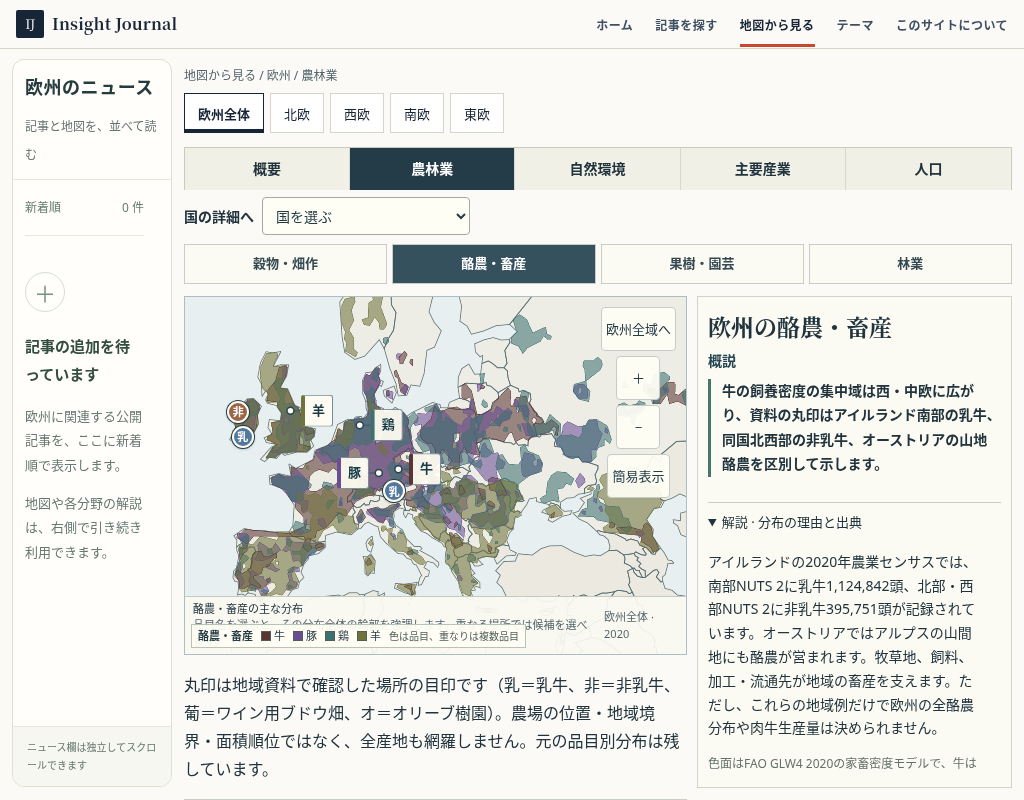
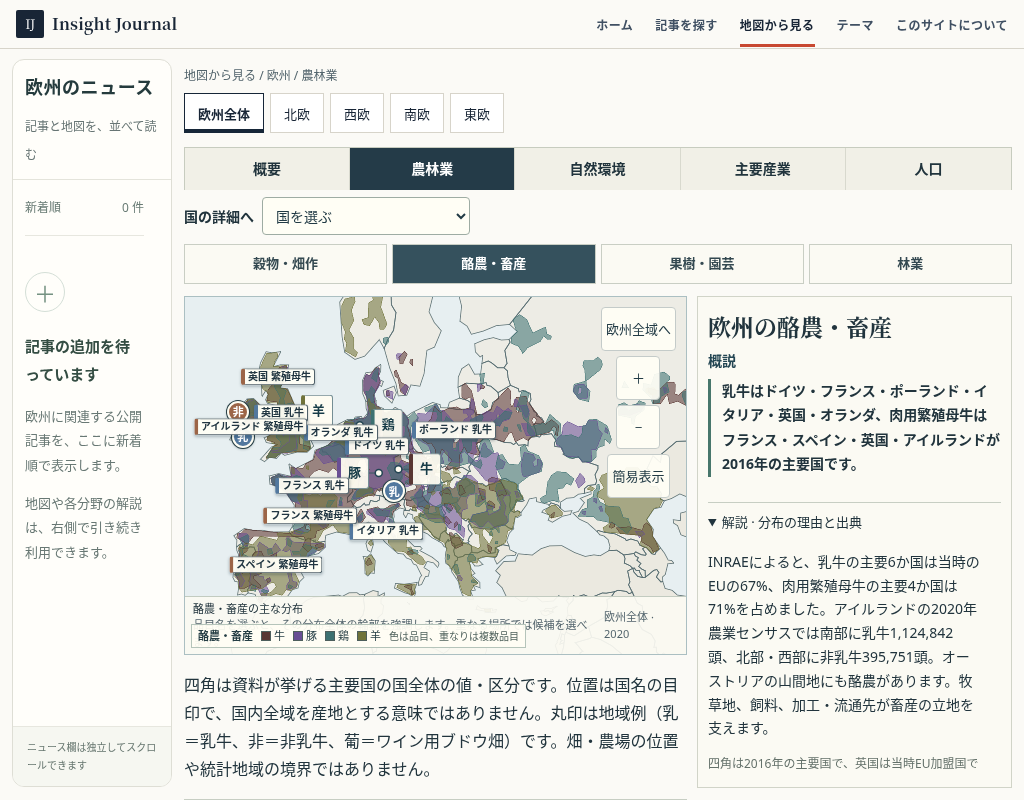
Show sourced principal farming countries across Europe

diff --git a/src/lib/atlas-europe-reader.ts b/src/lib/atlas-europe-reader.ts
@@ -32,6 +32,7 @@ const factualSources: Record<string, ReaderSource[]> = {
   chicken:climateFarming.Csb.sources,
   sheep:[...climateFarming.Cfb.sources,...cityFarming.reykjavik.sources,cityFarming.athens.sources[1]],
   livestock:[
+    {url:'https://sustainbeef.hub.inrae.fr/project/wp2.1-description-of-beef-production-systems/wp2.1.1-beef-production-national-statistics',label:'INRAE：2016年の乳牛・肉用繁殖母牛の主要国'},
     {url:'https://www.cso.ie/en/releasesandpublications/ep/p-coa/censusofagriculture2020-preliminaryresults/livestock/',label:'アイルランドCSO：2020年農業センサスの乳牛・非乳牛（地域別）'},
     {url:'https://www.bmluk.gv.at/en/topics/agriculture/agriculture-in-austria/animal-production-in-austria/dairy-farming-in-austria.html',label:'オーストリア農業省：山間地の酪農'},
   ],
@@ -189,14 +190,14 @@ export function europeReaderCopy(layer:EuropeLayer) {
     note:'2020年頃の品目別収穫面積格子から集中域を抽出した概略図です。濃淡は数量順位ではありません。ライムギ単独の元格子は未収録です。',
   };
   if(layer.id==='livestock')return {
-    title:'欧州の酪農・畜産',takeaway:'牛の飼養密度の集中域は西・中欧に広がり、資料の丸印はアイルランド南部の乳牛、同国北西部の非乳牛、オーストリアの山地酪農を区別して示します。',
-    body:'アイルランドの2020年農業センサスでは、南部NUTS 2に乳牛1,124,842頭、北部・西部NUTS 2に非乳牛395,751頭が記録されています。オーストリアではアルプスの山間地にも酪農が営まれます。牧草地、飼料、加工・流通先が地域の畜産を支えます。ただし、これらの地域例だけで欧州の全酪農分布や肉牛生産量は決められません。',
-    note:'色面はFAO GLW4 2020の家畜密度モデルで、牛は乳用・肉用を分けません。丸印は別資料の地域を示す目印で、位置は農場やNUTS 2境界ではありません。非乳牛は肉牛の出荷量ではありません。鶏も肉用・採卵用を分けられません。',
+    title:'欧州の酪農・畜産',takeaway:'乳牛はドイツ・フランス・ポーランド・イタリア・英国・オランダ、肉用繁殖母牛はフランス・スペイン・英国・アイルランドが2016年の主要国です。',
+    body:'INRAEによると、乳牛の主要6か国は当時のEUの67%、肉用繁殖母牛の主要4か国は71%を占めました。アイルランドの2020年農業センサスでは南部に乳牛1,124,842頭、北部・西部に非乳牛395,751頭。オーストリアの山間地にも酪農があります。牧草地、飼料、加工・流通先が畜産の立地を支えます。',
+    note:'四角は2016年の主要国で、英国は当時EU加盟国でした。国名位置は国内の飼養分布ではありません。色面はFAO GLW4 2020の家畜密度モデルで、牛は乳用・肉用を分けません。丸印は農場やNUTS 2境界ではありません。非乳牛と肉用繁殖母牛、肉牛出荷量は別の指標です。',
   };
   if(layer.id==='horticulture')return {
-    title:'欧州の果樹・園芸',takeaway:'柑橘の色面は地中海側に広がり、別資料の丸印はリオハ、ラングドック、フリウリ、アッティカのワイン用ブドウ畑と、地中海周辺のオリーブ樹園を示します。',
-    body:'Eurostatの2020年地域表では、農用地に占めるワイン用ブドウ畑がリオハ20.1%、ラングドック21.3%、フリウリ約15%、アッティカ9.4%です。2023年のEUのオリーブ樹園約460万haは主に地中海周辺にあり、面積の53%がスペイン、24%がイタリア、14%がギリシャ、8%がポルトガルです。冬の温暖さ、夏の乾燥と水管理、加工・販売が栽培を支えます。',
-    note:'色面はSPAM 2020の柑橘・温帯果樹・VEGE集合区分で、ブドウ・オリーブ単独の元格子は未収録です。丸印は資料で報告された地域の目印で畑の位置や境界ではありません。ワイン用ブドウ畑は全ブドウの収穫量ではなく、オリーブ樹園面積は収穫量ではありません。EurostatのEU対象を欧州全域と読み替えません。',
+    title:'欧州の果樹・園芸',takeaway:'EUのワイン用ブドウ畑はスペイン・フランス・イタリアに2020年の74.9%、オリーブ樹園はスペイン・イタリア・ギリシャ・ポルトガルに2023年の99%があります。',
+    body:'Eurostatのブドウ畑面積はスペイン約90万ha、フランス約80万ha、イタリア約70万ha。リオハ、ラングドック、フリウリ、アッティカでは農用地に占める比率も高くなります。オリーブ樹園約460万haは主に地中海周辺です。温暖な冬、乾いた夏と水管理、加工・販売が栽培を支えます。',
+    note:'四角は国全体の面積・EU比で、国内の産地境界ではありません。ブドウは2020年のワイン用畑、オリーブは2023年の樹園面積で、収穫量ではありません。丸印はブドウ畑の地域例です。色面はSPAM 2020の柑橘・温帯果樹・VEGE集合区分で、ブドウ・オリーブ単独の元格子は未収録です。EUの対象を欧州全域と読み替えません。',
   };
   if(layer.id==='water')return {
     title:'河川・湖',takeaway:'ドナウ川は中欧から黒海へ、ライン川はアルプス方面から北海へ流れ、北欧には多数の湖が分布します。',

diff --git a/src/data/atlas/europe/farming-regional-evidence.ts b/src/data/atlas/europe/farming-regional-evidence.ts
@@ -7,5 +7,31 @@ export const europeFarmingRegionalEvidence = [
   {id:'languedoc-vines',genre:'horticulture',kind:'vines',name:'ラングドック・ブドウ畑',coordinates:[3.1,43.6],period:'2020',detail:'農用地に占めるブドウ畑21.3%。地域内の畑の場所は示しません。',source:'https://ec.europa.eu/eurostat/statistics-explained/index.php?title=Vineyards_in_the_EU_-_statistics'},
   {id:'friuli-vines',genre:'horticulture',kind:'vines',name:'フリウリ・ブドウ畑',coordinates:[13.1,46.1],period:'2020',detail:'農用地に占めるブドウ畑は約15%。',source:'https://ec.europa.eu/eurostat/statistics-explained/index.php?title=Vineyards_in_the_EU_-_statistics'},
   {id:'attica-vines',genre:'horticulture',kind:'vines',name:'アッティカ・ブドウ畑',coordinates:[23.7,38.0],period:'2020',detail:'農用地に占めるブドウ畑9.4%。',source:'https://ec.europa.eu/eurostat/statistics-explained/index.php?title=Vineyards_in_the_EU_-_statistics'},
-  {id:'mediterranean-olives',genre:'horticulture',kind:'olives',name:'地中海側・オリーブ樹園',coordinates:[15.7,39.5],period:'2023',detail:'Eurostatは樹園面積が主に地中海周辺に分布すると説明。点は地域境界や収穫位置ではありません。',source:'https://ec.europa.eu/eurostat/statistics-explained/index.php?title=Agricultural_production_-_orchards'},
 ] as const;
+
+/** Country totals or a source's named leading-country group. Anchors label countries, not production sites. */
+export const europeFarmingCountryEvidence = [
+  {id:'dairy-de',genre:'livestock',kind:'dairy-country',name:'ドイツ',coordinates:[10.1,51.3],value:'乳牛',detail:'2016年の乳牛群。ドイツ・フランス・ポーランド・イタリア・英国・オランダの6か国で当時のEUの67%。個別の国別割合ではありません。'},
+  {id:'dairy-fr',genre:'livestock',kind:'dairy-country',name:'フランス',coordinates:[1.2,47.8],value:'乳牛',detail:'2016年の乳牛主要6か国の一つ。国の位置を示し、国内の飼養地域ではありません。'},
+  {id:'dairy-pl',genre:'livestock',kind:'dairy-country',name:'ポーランド',coordinates:[20.5,52.6],value:'乳牛',detail:'2016年の乳牛主要6か国の一つ。'},
+  {id:'dairy-it',genre:'livestock',kind:'dairy-country',name:'イタリア',coordinates:[11.3,43.5],value:'乳牛',detail:'2016年の乳牛主要6か国の一つ。'},
+  {id:'dairy-uk',genre:'livestock',kind:'dairy-country',name:'英国',coordinates:[-3.0,54.0],value:'乳牛',detail:'2016年、英国がEU加盟国だった当時の乳牛主要6か国の一つ。'},
+  {id:'dairy-nl',genre:'livestock',kind:'dairy-country',name:'オランダ',coordinates:[5.1,52.4],value:'乳牛',detail:'2016年の乳牛主要6か国の一つ。'},
+  {id:'suckler-fr',genre:'livestock',kind:'suckler-country',name:'フランス',coordinates:[1.0,45.0],value:'繁殖母牛',detail:'2016年の肉用繁殖母牛主要4か国の一つ。フランス・スペイン・英国・アイルランドで当時のEUの71%。'},
+  {id:'suckler-es',genre:'livestock',kind:'suckler-country',name:'スペイン',coordinates:[-3.7,40.1],value:'繁殖母牛',detail:'2016年の肉用繁殖母牛主要4か国の一つ。'},
+  {id:'suckler-uk',genre:'livestock',kind:'suckler-country',name:'英国',coordinates:[-3.4,56.8],value:'繁殖母牛',detail:'2016年、英国がEU加盟国だった当時の肉用繁殖母牛主要4か国の一つ。'},
+  {id:'suckler-ie',genre:'livestock',kind:'suckler-country',name:'アイルランド',coordinates:[-7.1,52.9],value:'繁殖母牛',detail:'2016年の肉用繁殖母牛主要4か国の一つ。2020年の非乳牛の地域値とは別の指標。'},
+  {id:'vines-es',genre:'horticulture',kind:'vines-country',name:'スペイン',coordinates:[-5.0,43.0],value:'葡 90万ha',detail:'2020年のワイン用ブドウ畑の国全体の面積、概数。'},
+  {id:'vines-fr',genre:'horticulture',kind:'vines-country',name:'フランス',coordinates:[0.2,46.9],value:'葡 80万ha',detail:'2020年のワイン用ブドウ畑の国全体の面積、概数。'},
+  {id:'vines-it',genre:'horticulture',kind:'vines-country',name:'イタリア',coordinates:[10.2,44.9],value:'葡 70万ha',detail:'2020年のワイン用ブドウ畑の国全体の面積、概数。'},
+  {id:'olives-es',genre:'horticulture',kind:'olives-country',name:'スペイン',coordinates:[-3.3,37.5],value:'オ 53%',detail:'2023年のEUオリーブ樹園面積に占めるスペイン国全体の割合。'},
+  {id:'olives-it',genre:'horticulture',kind:'olives-country',name:'イタリア',coordinates:[15.2,40.3],value:'オ 24%',detail:'2023年のEUオリーブ樹園面積に占めるイタリア国全体の割合。'},
+  {id:'olives-gr',genre:'horticulture',kind:'olives-country',name:'ギリシャ',coordinates:[22.1,37.5],value:'オ 14%',detail:'2023年のEUオリーブ樹園面積に占めるギリシャ国全体の割合。'},
+  {id:'olives-pt',genre:'horticulture',kind:'olives-country',name:'ポルトガル',coordinates:[-8.6,40.4],value:'オ 8%',detail:'2023年のEUオリーブ樹園面積に占めるポルトガル国全体の割合。'},
+] as const;
+
+export const europeFarmingCountrySources = {
+  livestock:'https://sustainbeef.hub.inrae.fr/project/wp2.1-description-of-beef-production-systems/wp2.1.1-beef-production-national-statistics',
+  vines:'https://ec.europa.eu/eurostat/statistics-explained/index.php?title=Vineyards_in_the_EU_-_statistics',
+  olives:'https://ec.europa.eu/eurostat/statistics-explained/index.php?title=Agricultural_production_-_orchards',
+} as const;

diff --git a/src/lib/atlas-europe-explorer.ts b/src/lib/atlas-europe-explorer.ts
@@ -1,7 +1,7 @@
 import { frame, europeFarmingInitialBounds, project, unproject, wheatCell, displayCell, visibleBounds, readEuropeState, writeEuropeState, defaultEuropeCity, normaliseEuropePoint } from './atlas-europe-view';
 import { farmingPresentation, farmingAtPoint, updateFarmingMap, type FarmingAreas } from './atlas-europe-farming';
 import { europeFarmingGenreForLayer, europeFarmingGenres } from '../data/atlas/europe/farming-genres.ts';
-import { europeFarmingRegionalEvidence } from '../data/atlas/europe/farming-regional-evidence.ts';
+import { europeFarmingRegionalEvidence, europeFarmingCountryEvidence } from '../data/atlas/europe/farming-regional-evidence.ts';
 import { europeFarmAvailableMetrics } from '../data/atlas/europe/farming-statistics';
 import { layerColor, fields, europeFieldHeadings, type EuropeLayer } from '../data/atlas/europe/layers';
 import type { EuropeReading } from '../data/atlas/europe/readings';
@@ -199,11 +199,13 @@ export function initEuropeAtlas() {
     return {x:point.x-rect.left,y:point.y-rect.top};
   };
   const pewMarkers=createEuropePewMarkers(stage,selectCountry);
-  const regionalEvidence=europeFarmingRegionalEvidence.map(item=>{
+  const regionalEvidence=[...europeFarmingRegionalEvidence,...europeFarmingCountryEvidence].map(item=>{
     const node=document.createElement('span');
-    node.className='eu-farming-regional-evidence';node.dataset.euFarmingEvidence=item.id;node.dataset.kind=item.kind;
-    node.textContent=({'dairy':'乳','other-cows':'非','vines':'葡','olives':'オ'} as Record<string,string>)[item.kind];
-    node.setAttribute('role','img');node.setAttribute('aria-label',`${item.name}：${item.detail}（${item.period}）`);
+    const country='value' in item;
+    node.className=country?'eu-farming-country-evidence':'eu-farming-regional-evidence';node.dataset.euFarmingEvidence=item.id;node.dataset.kind=item.kind;
+    if(country){const name=document.createElement('span'),value=document.createElement('strong');name.textContent=item.name;value.textContent=item.value;node.append(name,value);}
+    else node.textContent=({'dairy':'乳','other-cows':'非','vines':'葡'} as Record<string,string>)[item.kind];
+    node.setAttribute('role','img');node.setAttribute('aria-label',`${item.name}：${item.detail}${country?'':`（${item.period}）`}`);
     node.hidden=true;stage.append(node);return {item,node};
   });
   function positionRegionalEvidence(){
@@ -213,7 +215,8 @@ export function initEuropeAtlas() {
       if(node.hidden)continue;
       const point=overlayProject(item.coordinates as [number,number]);
       node.style.left=point.x+'px';node.style.top=point.y+'px';
-      node.hidden=point.x<22||point.x>rect.width-22||point.y<42||point.y>rect.height-44;
+      const edge='value' in item?36:22;
+      node.hidden=point.x<edge||point.x>rect.width-edge||point.y<42||point.y>rect.height-44;
     }
   }
   const features = [...config.populationCities,...config.readings,...europeCultureOverviewPlaces];

diff --git a/src/styles/atlas-europe-workspace.css b/src/styles/atlas-europe-workspace.css
@@ -496,6 +496,12 @@
 .eu-workspace-root[data-europe-detail] .eu-farming-regional-evidence[data-kind="other-cows"] { background:#9c6547; }
 .eu-workspace-root[data-europe-detail] .eu-farming-regional-evidence[data-kind="vines"] { background:#935a86; }
 .eu-workspace-root[data-europe-detail] .eu-farming-regional-evidence[data-kind="olives"] { background:#6f7f3b; }
+.eu-workspace-root[data-europe-detail] .eu-farming-country-evidence { position:absolute; z-index:3; transform:translate(-50%,-50%); display:flex; align-items:center; gap:3px; padding:2px 3px; border:1px solid #50616a; border-left:4px solid #52789e; border-radius:3px; background:#fffef4f2; color:#213642; text-align:center; font:700 10px/1.15 var(--sans); white-space:nowrap; pointer-events:none; box-shadow:0 1px 3px #102b3444; }
+.eu-workspace-root[data-europe-detail] .eu-farming-country-evidence[hidden] { display:none; }
+.eu-workspace-root[data-europe-detail] .eu-farming-country-evidence strong { font-size:10px; }
+.eu-workspace-root[data-europe-detail] .eu-farming-country-evidence[data-kind="suckler-country"] { border-left-color:#9c6547; }
+.eu-workspace-root[data-europe-detail] .eu-farming-country-evidence[data-kind="vines-country"] { border-left-color:#935a86; }
+.eu-workspace-root[data-europe-detail] .eu-farming-country-evidence[data-kind="olives-country"] { border-left-color:#6f7f3b; }
 .eu-workspace-root[data-europe-detail] .eu-terrain-place-label { position:absolute; z-index:2; transform:translate(-50%,-50%); padding:2px 4px; background:#fffef4df; color:#413e36; font:700 12px/1.25 var(--sans); text-shadow:0 1px #fff; pointer-events:none; white-space:nowrap; }
 .eu-workspace-root[data-europe-detail] .eu-terrain-name-options { display:flex; gap:6px; padding:7px 0; }
 .eu-workspace-root[data-europe-detail] .eu-terrain-name-options button { min-height:36px; padding:5px 12px; border:1px solid #9eaca3; background:#fffef5; color:#244653; font:700 14px/1.4 var(--sans); }

diff --git a/docs/review/europe-distribution-2026-10-10/README.md b/docs/review/europe-distribution-2026-10-10/README.md
@@ -1,29 +1,50 @@
-# 欧州の農業地域資料・地下水原図の続き
+# 欧州の農業分布：主要国と地域例の根拠
 
-基点は `ab2bf51581f6874fb141b5e858892c7a2faf9f2e`。このDraftは公開済みの欧州画面を作り直さず、酪農・非乳牛、ブドウ、オリーブの地域資料を補います。世界シェア・貿易・自給率統計には触れません。
+基点は `ab2bf51581f6874fb141b5e858892c7a2faf9f2e`。このDraftは既存の品目別格子を残し、乳牛・肉用繁殖母牛、ワイン用ブドウ畑、オリーブ樹園について、資料が明示する**主要国**と一部の**地域例**を重ねます。世界シェア・貿易・自給率統計には触れません。
 
 ## 今回、地図で確かめられること
 
-色面は従来のFAO GLW4（牛・豚・鶏・羊の推計密度）とSPAM 2020（収録済みの作物集合区分）のままです。追加した丸印は別の一次資料にある地域の**目印**で、農場の座標、統計地域の境界、上位産地の順位を意味しません。乳牛・非乳牛は区別します。異なる年、対象国、単位の数値を一つの強度階級へ混ぜません。国や地域に印がないことはゼロではありません。
+色面は従来のFAO GLW4（牛・豚・鶏・羊の推計密度）とSPAM 2020（収録済みの作物集合区分）のままです。四角い国名札は資料が明示する国全体の面積・割合、または主要国の集合を示します。国の中の札位置は統計の対象国を識別するためのもので、**その地点や国土全域に生産があるという意味ではありません**。丸印は資料が値・特徴を記述した地域の目印です。いずれも農場座標や統計地域の境界ではありません。値のない国をゼロと見なしません。
+
+| 対象 | 地図上で示せる広がり | 示せないもの |
+| --- | --- | --- |
+| 乳牛 | [INRAEの2016年の整理](https://sustainbeef.hub.inrae.fr/project/wp2.1-description-of-beef-production-systems/wp2.1.1-beef-production-national-statistics)で主要6か国（ドイツ・フランス・ポーランド・イタリア・英国・オランダ）が当時のEU乳牛頭数の67%。アイルランド南部とオーストリア山間地は別資料の地域例。 | 6か国内の乳牛密度面。2016年のEUには英国が入る。2020年のGLW4の牛色面は乳用・肉用を分けない。 |
+| 非乳牛・肉用繁殖母牛 | [アイルランド統計局の2020年センサス](https://www.cso.ie/en/releasesandpublications/ep/p-coa/censusofagriculture2020-preliminaryresults/livestock/)の北部・西部NUTS 2の非乳牛、[INRAE](https://sustainbeef.hub.inrae.fr/project/wp2.1-description-of-beef-production-systems/wp2.1.1-beef-production-national-statistics)による2016年の肉用繁殖母牛主要4か国（フランス・スペイン・英国・アイルランド、当時のEUの71%）。 | 非乳牛と肉用繁殖母牛は同じ分類ではない。いずれも牛肉出荷量ではなく、国・地域内の密度面も示せない。 |
+| ワイン用ブドウ畑 | [Eurostatの2020年記事](https://ec.europa.eu/eurostat/statistics-explained/index.php?title=Vineyards_in_the_EU_-_statistics)はスペイン・フランス・イタリアでEUの畑面積の74.9%、さらにルーマニア・ポルトガル・ドイツ・ギリシャで各約10～20万haと記す。専門化した地域もスペイン・フランス・イタリア・ポルトガルに広く分布し、リオハなどの値がある。 | 全ブドウ、食用ブドウ、収穫量の分布。地域内の畑の位置と境界。 |
+| オリーブ樹園 | [Eurostatの2023年記事](https://ec.europa.eu/eurostat/statistics-explained/index.php?title=Agricultural_production_-_orchards)はEUの樹園約460万haが主に地中海周辺で、スペイン53%・イタリア24%・ギリシャ14%・ポルトガル8%と記す。地図はこの4か国を国名札で示し、旧版の南イタリア付近の単独点を削除した。 | 各国内のどの地域に何haあるか、畑の境界・収穫量。地中海沿岸を一律に塗る根拠はない。 |
+
+異なる年・対象国・単位の数値を一つの強度階級には混ぜません。国名札の年と分母は右の説明にも記載しています。
 
 | 対象 | 地域と原資料の値 | 年・指標 | 出典・限界 |
 | --- | --- | --- | --- |
 | 乳牛・非乳牛 | アイルランド南部NUTS 2：乳牛1,124,842頭。北部・西部NUTS 2：非乳牛395,751頭。 | 2020年、頭数 | [アイルランド中央統計局・農業センサス Table 4.2](https://www.cso.ie/en/releasesandpublications/ep/p-coa/censusofagriculture2020-preliminaryresults/livestock/)。非乳牛は肉牛出荷量ではない。 |
 | アルプスの酪農 | オーストリア山間地の酪農の存在を目印で示す。 | 農業形態の記述、量を符号化しない | [オーストリア農業省](https://www.bmluk.gv.at/en/topics/agriculture/agriculture-in-austria/animal-production-in-austria/dairy-farming-in-austria.html)。地図の印は乳牛密度や生乳量の高位階級ではない。 |
 | ワイン用ブドウ畑 | リオハ20.1%、ラングドック＝ルシヨン21.3%、フリウリ＝ヴェネツィア・ジュリア約15%、アッティカ9.4%。 | 2020年、各地域の農用地に占めるブドウ畑比率 | [Eurostat `vit_t1` の地域解説](https://ec.europa.eu/eurostat/statistics-explained/index.php?title=Vineyards_in_the_EU_-_statistics)。食用ブドウや全ブドウ収穫量ではない。 |
-| オリーブ樹園 | 主に地中海周辺。EU内の面積はスペイン53%、イタリア24%、ギリシャ14%、ポルトガル8%。 | 2023年、樹園面積 | [Eurostat `ef_lus_orcholives` の解説](https://ec.europa.eu/eurostat/statistics-explained/index.php?title=Agricultural_production_-_orchards)。地中海の印は模式的な目印で、国の値をその点に割り当てていない。 |
+| オリーブ樹園 | 主に地中海周辺。EU内の面積はスペイン53%、イタリア24%、ギリシャ14%、ポルトガル8%。 | 2023年、樹園面積 | [Eurostat `ef_lus_orcholives` の解説](https://ec.europa.eu/eurostat/statistics-explained/index.php?title=Agricultural_production_-_orchards)。国全体の割合で、国名札の位置に割り当てた値ではない。 |
 
-Eurostatの地域原表 [`ef_lsk_bovine`](https://ec.europa.eu/eurostat/databrowser/view/ef_lsk_bovine/)、[`vit_t1`](https://ec.europa.eu/eurostat/databrowser/view/vit_t1/)、[`ef_lus_orcholives`](https://ec.europa.eu/eurostat/databrowser/view/ef_lus_orcholives/) の全行と対応するNUTS境界はこの作業環境で取得できていません。APIへの通常の読み取りが `403 Forbidden` で止まります。地域面の階級図を作るには、原表と同じ版の境界を照合する必要があります。現時点で印を連続した生産面に拡張しません。
+細密な地域面の階級図は今回含めません。国・地域内の産地境界は上の記事だけでは決められず、原表と同じ版のNUTS境界を照合する必要があります。欧州全体の乳牛・非乳牛、ブドウ、オリーブの連続面を完成扱いにしません。
 
-## 地下水
+### 原表取得の実行記録
+
+実際に失敗したのは次の**一つのURLだけ**です。Python `urllib.request.urlopen` で通常の読み取りを実行しました。
+
+```text
+GET https://ec.europa.eu/eurostat/api/dissemination/statistics/1.0/data/ef_lsk_bovine?lang=en&time=2023
+query: lang=en, time=2023
+result: URLError: <urlopen error Tunnel connection failed: 403 Forbidden>
+```
+
+これは接続トンネルの失敗で、Eurostat APIからのHTTP本文・ステータスは受け取れていません。`vit_t1` と `ef_lus_orcholives` のAPI、および `ef_lsk_bovine` の別クエリは**未試行**で、同じ403と扱いません。失敗URLを繰り返し呼ばず、接続設定の変更もしていません。上記の公表記事は通常の閲覧で内容を確認できました。
+
+## 独立した残件：地下水
 
 [PANGAEAのIHME欧州図](https://doi.pangaea.de/10.1594/PANGAEA.855274)はCC BY 3.0の2008年の図モザイクで、地下水の帯水層・水理地質の定性的な資料です。地下水残量、年間使用可能量、安全な揚水量ではありません。先に用意されたC4 Berlinの投影済み画像のmanifestでは範囲はおよそ東経2.11–15.37度、北緯48.76–55.96度で、欧州全域ではありません。原図には分類コード帯がなくRGBと線・文字が混在するため、色だけを自動分類しません。
 
-Libraryの画像、manifest、凡例を正規の転送手順で準備しましたが、三つとも `download failed` でした。指定された一度の再試行も同じ結果で、実行環境には画像・凡例のローカルファイルがありません。manifestの文字情報は読めましたが、原画像と凡例を開けず、基図との位置合わせも確認できません。地下水レイヤーは追加していません。
+Libraryの画像、manifest、凡例を正規の転送手順で準備しましたが、三つとも `download failed` でした。指定された一度の再試行も同じ結果で、実行環境には画像・凡例のローカルファイルがありません。manifestの文字情報は読めましたが、原画像と凡例を開けず、基図との位置合わせも確認できません。地下水レイヤーは追加していません。今回の再修正では転送を再試行していません。
 
 ## PC画面と確認
 
 - [酪農・畜産 1440px](1440-livestock.png) / [1024px](1024-livestock.png)
 - [果樹・園芸 1440px](1440-horticulture.png) / [1024px](1024-horticulture.png)
 
-`scripts/europe/capture-regional-evidence.mjs` で操作地図のジャンル切替、地域印、横はみ出し、JavaScriptエラー、両PC幅の撮影を確認します。詳細値と資料範囲は右の概説・解説・出典に記載しています。
+`scripts/europe/capture-regional-evidence.mjs` で操作地図のジャンル切替、主要国札と地域印、横はみ出し、JavaScriptエラー、両PC幅の撮影を確認します。詳細値と資料範囲は右の概説・解説・出典に記載しています。
